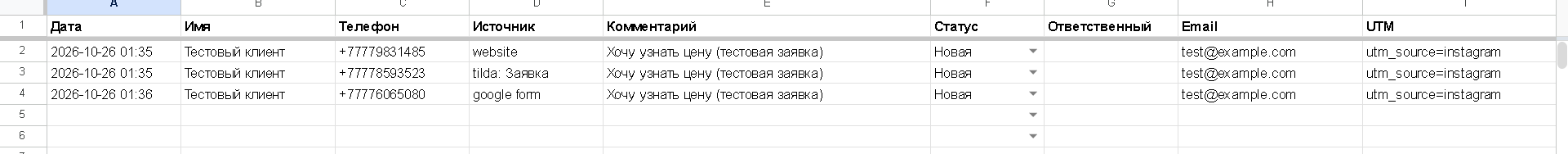
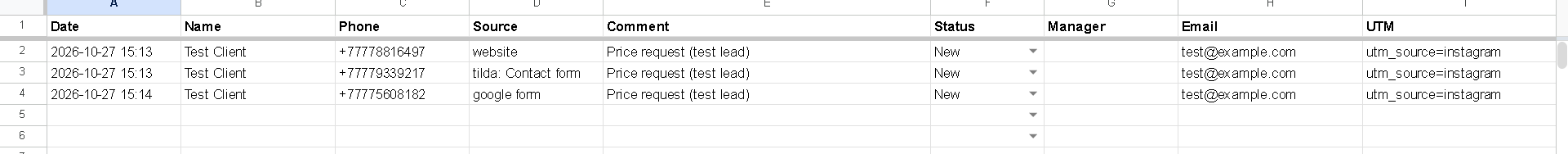
Add SHEET_LANGUAGE (en/ru) for the leads sheet, English demo screenshots

diff --git a/app/sinks/google_sheets.py b/app/sinks/google_sheets.py
@@ -4,27 +4,30 @@ from pathlib import Path
 
 import gspread
 
-from app.models import COLUMNS, STATUSES, Lead
+from app.models import COLUMNS, HEADERS, STATUS_LABELS, Lead
 
 # Pixel widths for COLUMNS, so dates, phones and comments are readable without resizing
 WIDTHS = [130, 150, 130, 130, 320, 110, 130, 180, 200]
 
 
 class GoogleSheet:
-    def __init__(self, credentials_file: Path, sheet_id: str, worksheet: str = "Leads"):
+    def __init__(
+        self, credentials_file: Path, sheet_id: str, worksheet: str = "Leads", lang: str = "ru"
+    ):
         self.sheet_id = sheet_id
+        self.lang = lang
         client = gspread.service_account(filename=str(credentials_file))
         spreadsheet = client.open_by_key(sheet_id)
         try:
             self.ws = spreadsheet.worksheet(worksheet)
         except gspread.WorksheetNotFound:
             self.ws = spreadsheet.add_worksheet(worksheet, rows=1000, cols=len(COLUMNS))
-        if self.ws.row_values(1) != COLUMNS:
+        if self.ws.row_values(1) != HEADERS[lang]:
             self.setup()
 
     def setup(self) -> None:
         """Header, frozen first row, column widths, status dropdown."""
-        self.ws.update([COLUMNS], "A1")
+        self.ws.update([HEADERS[self.lang]], "A1")
         self.ws.format("A1:I1", {"textFormat": {"bold": True}})
         self.ws.freeze(rows=1)
         self.ws.spreadsheet.batch_update(
@@ -41,7 +44,9 @@ class GoogleSheet:
                             "rule": {
                                 "condition": {
                                     "type": "ONE_OF_LIST",
-                                    "values": [{"userEnteredValue": s} for s in STATUSES],
+                                    "values": [
+                                        {"userEnteredValue": s} for s in STATUS_LABELS[self.lang]
+                                    ],
                                 },
                                 "showCustomUi": True,
                                 "strict": False,
@@ -69,7 +74,7 @@ class GoogleSheet:
 
     def append(self, lead: Lead) -> str:
         # RAW keeps "+7..." phones and "YYYY-MM-DD HH:MM" dates as text (USER_ENTERED reformats)
-        resp = self.ws.append_row(lead.row(), value_input_option="RAW")
+        resp = self.ws.append_row(lead.row(self.lang), value_input_option="RAW")
         # updatedRange looks like "Leads!A5:I5"
         rng = resp.get("updates", {}).get("updatedRange", "")
         row = rng.split("!A")[-1].split(":")[0] if "!A" in rng else ""
@@ -77,4 +82,5 @@ class GoogleSheet:
         return f"{url}&range=A{row}" if row else url
 
     def records(self) -> list[dict]:
-        return self.ws.get_all_records(expected_headers=COLUMNS)
+        # keyed by position, so reports work with any header language
+        return [dict(zip(COLUMNS, r, strict=False)) for r in self.ws.get_all_values()[1:] if any(r)]

diff --git a/app/models.py b/app/models.py
@@ -3,6 +3,7 @@ from datetime import datetime
 
 from pydantic import BaseModel, EmailStr, Field, field_validator, model_validator
 
+# COLUMNS are the internal record keys; the sheet header uses HEADERS[SHEET_LANGUAGE]
 STATUSES = ["Новая", "В работе", "Закрыта", "Спам"]
 COLUMNS = [
     "Дата",
@@ -15,6 +16,11 @@ COLUMNS = [
     "Email",
     "UTM",
 ]
+HEADERS = {
+    "ru": COLUMNS,
+    "en": ["Date", "Name", "Phone", "Source", "Comment", "Status", "Manager", "Email", "UTM"],
+}
+STATUS_LABELS = {"ru": STATUSES, "en": ["New", "In progress", "Closed", "Spam"]}
 
 
 def normalize_phone(raw: str | None) -> str | None:
@@ -41,7 +47,7 @@ class Lead(BaseModel):
     comment: str = Field(default="", max_length=2000)
     utm: dict[str, str] = {}
     created_at: datetime
-    status: str = "Новая"
+    status: str = ""  # empty = first status of the sheet language
     manager: str = ""
 
     @field_validator("name", "comment", "source", mode="before")
@@ -70,7 +76,7 @@ class Lead(BaseModel):
             raise ValueError("phone or email is required")
         return self
 
-    def row(self) -> list[str]:
+    def row(self, lang: str = "ru") -> list[str]:
         utm = " ".join(f"{k}={v}" for k, v in self.utm.items())
         return [
             self.created_at.strftime("%Y-%m-%d %H:%M"),
@@ -78,7 +84,7 @@ class Lead(BaseModel):
             self.phone or "",
             self.source,
             self.comment,
-            self.status,
+            self.status or STATUS_LABELS[lang][0],
             self.manager,
             self.email or "",
             utm,

diff --git a/app/sinks/local_xlsx.py b/app/sinks/local_xlsx.py
@@ -7,26 +7,29 @@ from openpyxl import Workbook, load_workbook
 from openpyxl.styles import Font, PatternFill
 from openpyxl.worksheet.datavalidation import DataValidation
 
-from app.models import COLUMNS, STATUSES, Lead
+from app.models import COLUMNS, HEADERS, STATUS_LABELS, Lead
 
 _lock = threading.Lock()
 
 
 class LocalXlsx:
-    def __init__(self, path: Path):
+    def __init__(self, path: Path, lang: str = "ru"):
         self.path = path
+        self.lang = lang
 
     def _create(self) -> None:
         self.path.parent.mkdir(parents=True, exist_ok=True)
         wb = Workbook()
         ws = wb.active
         ws.title = "Leads"
-        ws.append(COLUMNS)
+        ws.append(HEADERS[self.lang])
         for cell in ws[1]:
             cell.font = Font(bold=True, color="FFFFFF")
             cell.fill = PatternFill("solid", fgColor="1F4E78")
         ws.freeze_panes = "A2"
-        dv = DataValidation(type="list", formula1='"' + ",".join(STATUSES) + '"', allow_blank=True)
+        dv = DataValidation(
+            type="list", formula1='"' + ",".join(STATUS_LABELS[self.lang]) + '"', allow_blank=True
+        )
         ws.add_data_validation(dv)
         dv.add("F2:F10000")
         for col, width in zip("ABCDEFGHI", (17, 20, 15, 16, 40, 12, 16, 24, 30), strict=True):
@@ -39,7 +42,7 @@ class LocalXlsx:
                 self._create()
             wb = load_workbook(self.path)
             ws = wb.active
-            ws.append(lead.row())
+            ws.append(lead.row(self.lang))
             row = ws.max_row
             wb.save(self.path)
         return f"{self.path.name}, row {row}"

diff --git a/scripts/send_test_lead.py b/scripts/send_test_lead.py
@@ -12,15 +12,18 @@ import httpx
 parser = argparse.ArgumentParser()
 parser.add_argument("--url", default="http://localhost:8000")
 parser.add_argument("--source", default="json", choices=["json", "tilda", "google-form"])
+parser.add_argument("--lang", default="ru", choices=["ru", "en"])
 parser.add_argument("--secret", default=os.getenv("WEBHOOK_SECRET", "change-me"))
 args = parser.parse_args()
 
 phone = f"8 777 {random.randint(100, 999)} {random.randint(10, 99)} {random.randint(10, 99)}"
 lead = {
-    "name": "Тестовый клиент",
+    "name": "Тестовый клиент" if args.lang == "ru" else "Test Client",
     "phone": phone,
     "email": "test@example.com",
-    "comment": "Хочу узнать цену (тестовая заявка)",
+    "comment": "Хочу узнать цену (тестовая заявка)"
+    if args.lang == "ru"
+    else "Price request (test lead)",
     "utm_source": "instagram",
 }
 url = f"{args.url}/webhook/{args.source}"
@@ -31,7 +34,7 @@ if args.source == "tilda":
         "Phone": phone,
         "Email": lead["email"],
         "Comments": lead["comment"],
-        "formname": "Заявка",
+        "formname": "Заявка" if args.lang == "ru" else "Contact form",
         "utm_source": "instagram",
     }
     resp = httpx.post(url, data=tilda, headers=headers)

diff --git a/app/main.py b/app/main.py
@@ -29,10 +29,15 @@ def build_pipeline(cfg: Settings) -> Pipeline:
     if cfg.google_enabled:
         from app.sinks.google_sheets import GoogleSheet
 
-        storage = GoogleSheet(cfg.google_credentials_file, cfg.google_sheet_id)
+        storage = GoogleSheet(
+            cfg.google_credentials_file,
+            cfg.google_sheet_id,
+            cfg.google_worksheet,
+            cfg.sheet_language,
+        )
         log.info("Storage: Google Sheet")
     else:
-        storage = LocalXlsx(cfg.data_dir / "leads.xlsx")
+        storage = LocalXlsx(cfg.data_dir / "leads.xlsx", cfg.sheet_language)
         log.info("Storage: demo mode, %s", storage.path)
     if cfg.telegram_bot_token and cfg.telegram_chat_ids:
         notifier = Telegram(cfg.telegram_bot_token, cfg.telegram_chat_ids)

diff --git a/app/jobs/reports.py b/app/jobs/reports.py
@@ -8,7 +8,7 @@ from openpyxl import Workbook
 from openpyxl.chart import BarChart, Reference
 from openpyxl.styles import Font, PatternFill
 
-OPEN_STATUSES = {"Новая", ""}
+OPEN_STATUSES = {"Новая", "New", ""}
 
 
 def _when(record: dict) -> datetime | None:
@@ -31,7 +31,7 @@ def daily_summary(records: list[dict], day: date) -> str:
     open_total = sum(1 for r in records if str(r.get("Статус") or "") in OPEN_STATUSES)
     lines = [f"📊 <b>Summary for {day:%d.%m.%Y}</b>", f"Leads today: {len(today)}"]
     lines += [f"  • {src}: {n}" for src, n in by_source.most_common()]
-    lines.append(f"Not processed (status «Новая»), all time: {open_total}")
+    lines.append(f"Not processed (new), all time: {open_total}")
     return "\n".join(lines)
 
 

diff --git a/tests/test_automation.py b/tests/test_automation.py
@@ -164,6 +164,17 @@ def test_local_xlsx_storage(tmp_path):
     assert store.records()[0]["Телефон"] == "+77771234567"
 
 
+def test_english_sheet_keeps_internal_keys(tmp_path):
+    store = LocalXlsx(tmp_path / "leads.xlsx", lang="en")
+    store.append(lead())
+    ws = load_workbook(tmp_path / "leads.xlsx").active
+    assert [c.value for c in ws[1]][:3] == ["Date", "Name", "Phone"]
+    assert ws["F2"].value == "New"
+    record = store.records()[0]
+    assert record["Телефон"] == "+77771234567" and record["Статус"] == "New"
+    assert "all time: 1" in daily_summary([record], date(2000, 1, 1))  # "New" counts as open
+
+
 @pytest.fixture
 def client(tmp_path):
     cfg = Settings(webhook_secret="s3cret", data_dir=tmp_path, rate_limit_per_minute=5,

diff --git a/app/config.py b/app/config.py
@@ -15,6 +15,8 @@ class Settings(BaseSettings):
     # Google Sheets (empty = demo mode: local data/leads.xlsx)
     google_credentials_file: Path = ROOT / "secrets" / "google-service-account.json"
     google_sheet_id: str = ""
+    google_worksheet: str = "Leads"
+    sheet_language: str = "ru"  # header and status labels: ru or en
 
     # Telegram (empty = notifications are printed to the log)
     telegram_bot_token: str = ""

diff --git a/README.md b/README.md
@@ -50,11 +50,11 @@ Without Google/Telegram keys the app runs in **demo mode**: leads go to `data/le
 
 ![Leads in Google Sheets: phones normalized, status dropdown](docs/screenshots/sheet.png)
 
-*Live run: three test leads from a website form, Tilda and Google Forms written to a real Google Sheet.*
+*Live run: three test leads from a website form, Tilda and Google Forms written to a real Google Sheet (`SHEET_LANGUAGE=en`).*
 
 ![Telegram notifications for new leads](docs/screenshots/telegram.png)
 
-*Real notifications from a live run (Telegram Web): one lead from a website JSON form, one from Tilda. Test data.*
+*The same three leads as Telegram notifications, each with a link to its row in the sheet. Test data.*
 
 ## Working with me
 
@@ -80,7 +80,7 @@ FastAPI + uvicorn, pydantic, gspread (service account), httpx (Telegram Bot API)
 Setup: copy `.env.example` → `.env`; Google: [docs/GOOGLE_SETUP.md](docs/GOOGLE_SETUP.md); Tilda / Google Forms: [docs/TILDA_SETUP.md](docs/TILDA_SETUP.md).
 Security: webhook secret (constant-time compare), 30 requests/min per IP, 64 KB body limit, secrets only in `.env` and `secrets/` (git-ignored), the bot token is never logged.
 
-Sheet columns: `Дата | Имя | Телефон | Источник | Комментарий | Статус | Ответственный | Email | UTM`, status is a dropdown (Новая / В работе / Закрыта / Спам), header frozen.
+Sheet columns: `Date | Name | Phone | Source | Comment | Status | Manager | Email | UTM`, status is a dropdown (New / In progress / Closed / Spam), header frozen. `SHEET_LANGUAGE=ru` gives the same sheet in Russian (`Дата | Имя | Телефон …`, Новая / В работе / Закрыта / Спам).
 
 **Add a source:** write `parse(data: dict, now) -> Lead` in `app/sources/` (see `generic_json.py`), register it in `app/sources/__init__.py` → available at `/webhook/<name>`.
 **Add a destination:** implement `append(lead) -> link` and `records()` (storage) or `async send(text)` (notifier) in `app/sinks/`, wire it in `build_pipeline` (`app/main.py`).
